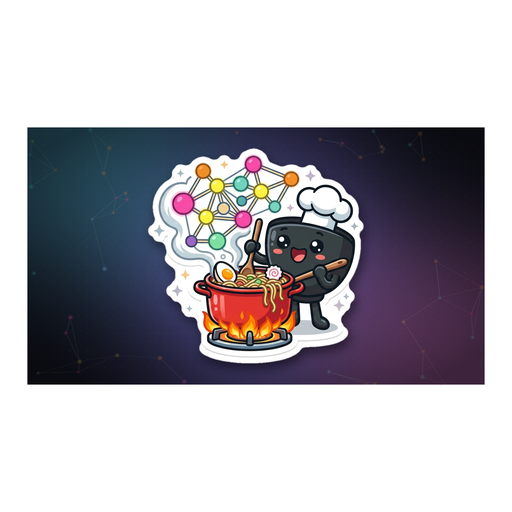
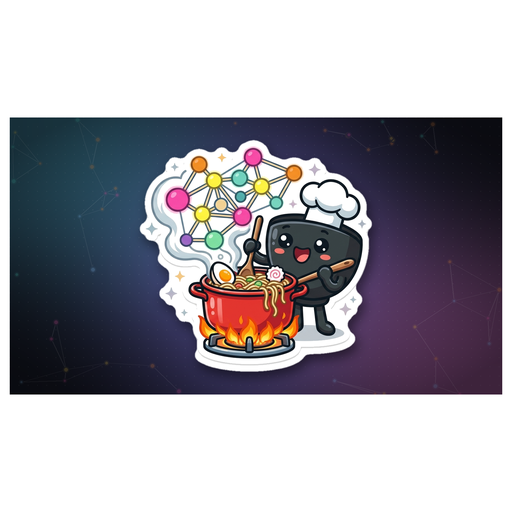
fix: larger images and display widths
Re-process assets with 2% padding instead of 6% so content fills more of the 512x512 frame. Bump hero image display width to 280 in both READMEs. Reduce cook/logo secondary images slightly.

Changed region(s): [[0.0, 0.2188, 1.0, 0.7812]]

diff --git a/README.md b/README.md
@@ -1,6 +1,6 @@
 <div align="center">
 
-<img src="assets/ragmen-kitchen.png" alt="RAGmen Kitchen" width="200"/>
+<img src="assets/ragmen-kitchen.png" alt="RAGmen Kitchen" width="280"/>
 
 # RAGmen Kitchen
 
@@ -57,7 +57,7 @@ flowchart LR
 Read it left to right. Each arrow is a handoff that can fail, and each one has a check before the next step runs.
 
 <div align="center">
-<img src="assets/ragmen-kitchen.png" alt="cook" width="160"/>
+<img src="assets/ragmen-kitchen.png" alt="cook" width="140"/>
 </div>
 
 ## Quickstart
